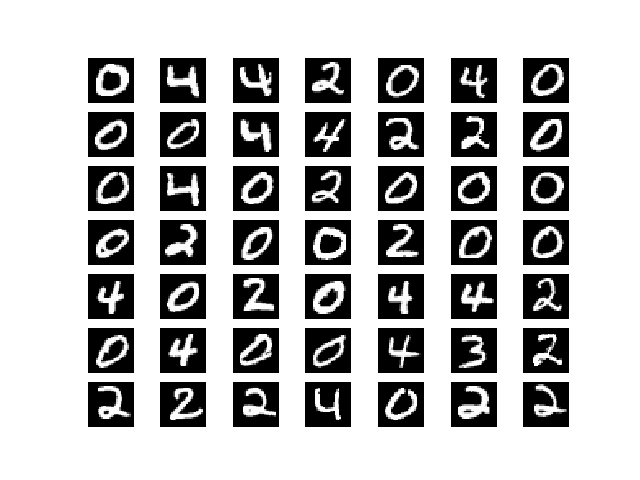
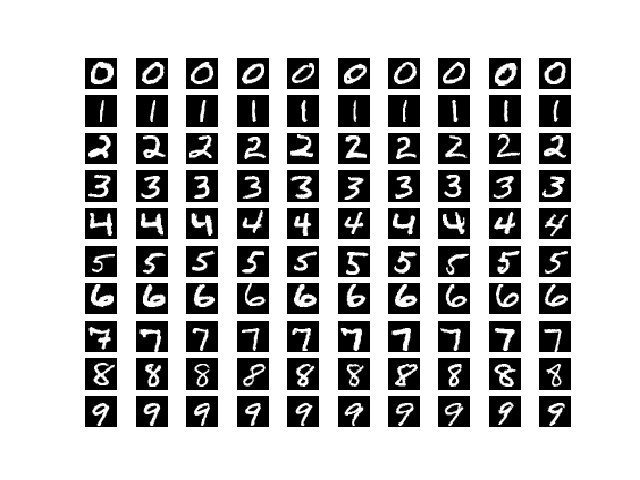
Fix images

diff --git a/vis_combined.py b/vis_combined.py
@@ -5,6 +5,7 @@ import matplotlib.pyplot as plt
 import numpy as np
 from train_aleatoric import predict as predict_aleatoric
 from scipy.stats import entropy
+from tqdm import tqdm
 
 net = torch.load('combined.pt')
 test_loader = torch.utils.data.DataLoader(
@@ -17,66 +18,92 @@ batch_size=256, shuffle=True)
 
 images = []
 ps = []
+classes = []
 def predict(data, net, T=50):
 
 	p = [predict_aleatoric(data, net) for _ in range(T)]
 	return sum(p) / len(p)
 
 net.train()
-for data, _ in test_loader:
+for data, target in tqdm(test_loader):
 	p = predict(data.view(len(data), -1), net)
 	images.extend(data.numpy())
 	
 	ps.extend(p.view(-1, 10).detach().numpy())
+	classes.extend(target.view(-1).detach().numpy())
 
 uncertainties = [entropy(p) for p in ps]
+classes = np.array(classes)
+all_uncertainties = np.array(uncertainties)
+all_images = np.array(images)
+
+
+
 plt.figure()
-indices = np.argsort(uncertainties)[:49]
-for i, index in enumerate(indices, start=1):
-	plt.subplot(7,7,i)
-	plt.imshow(images[index].reshape(28,28), cmap='gray')
-	plt.axis('off')
-	print (uncertainties[index])
+for t in range(10):
+	uncertainties = all_uncertainties[classes == t]
+	images = all_images[classes==t]
+	indices = np.argsort(uncertainties)[:10]
+	for i, index in enumerate(indices):
+		plt.subplot(10,10,t*10+i+1)
+		plt.imshow(images[index].reshape(28,28), cmap='gray')
+		plt.axis('off')
+		print (uncertainties[index])
 
 plt.savefig('high_combined_epistemic.png')
 
+
 plt.figure()
-indices = np.argsort(uncertainties)[::-1][:49]
-for i, index in enumerate(indices, start=1):
-	plt.subplot(7,7,i)
-	plt.imshow(images[index].reshape(28,28), cmap='gray')
-	plt.axis('off')
-	print (uncertainties[index])
+for t in range(10):
+	uncertainties = all_uncertainties[classes == t]
+	images = all_images[classes==t]
+	indices = np.argsort(uncertainties)[::-1][:10]
+	for i, index in enumerate(indices):
+		plt.subplot(10,10,t*10+i+1)
+		plt.imshow(images[index].reshape(28,28), cmap='gray')
+		plt.axis('off')
+		print (uncertainties[index])
 
 plt.savefig('low_combined_epistemic.png')
 
-'''
+
+
 images = []
 uncertainties = []
+classes =[]
 net.eval()
-for data, _ in test_loader:
+for data, target in tqdm(test_loader):
 	mu, log_sigma2 = net(data.view(len(data), -1))
 	images.extend(data.numpy())
 	
 	uncertainties.extend(log_sigma2.view(-1).detach().numpy())
+	classes.extend(target.view(-1).detach().numpy())
 
+classes = np.array(classes)
+all_uncertainties = np.array(uncertainties)
+all_images = np.array(images)
 plt.figure()
-indices = np.argsort(uncertainties)[:49]
-for i, index in enumerate(indices, start=1):
-	plt.subplot(7,7,i)
-	plt.imshow(images[index].reshape(28,28), cmap='gray')
-	plt.axis('off')
-	print (uncertainties[index])
-
+for t in range(10):
+	uncertainties = all_uncertainties[classes == t]
+	images = all_images[classes==t]
+	indices = np.argsort(uncertainties)[:10]
+	for i, index in enumerate(indices):
+		plt.subplot(10,10,t*10+i+1)
+		plt.imshow(images[index].reshape(28,28), cmap='gray')
+		plt.axis('off')
+		print (uncertainties[index])
 plt.savefig('high_combined_aleatoric.png')
 
 plt.figure()
-indices = np.argsort(uncertainties)[::-1][:49]
-for i, index in enumerate(indices, start=1):
-	plt.subplot(7,7,i)
-	plt.imshow(images[index].reshape(28,28), cmap='gray')
-	plt.axis('off')
-	print (uncertainties[index])
+for t in range(10):
+	uncertainties = all_uncertainties[classes == t]
+	images = all_images[classes==t]
+	indices = np.argsort(uncertainties)[::-1][:10]
+	for i, index in enumerate(indices):
+		plt.subplot(10,10,t*10+i+1)
+		plt.imshow(images[index].reshape(28,28), cmap='gray')
+		plt.axis('off')
+		print (uncertainties[index])
+
 
 plt.savefig('low_combined_aleatoric.png')
-'''

diff --git a/vis_epistemic.py b/vis_epistemic.py
@@ -5,6 +5,7 @@ import matplotlib.pyplot as plt
 import numpy as np
 from train_epistemic import predict
 from scipy.stats import entropy
+from tqdm import tqdm
 
 net = torch.load('epistemic.pt')
 test_loader = torch.utils.data.DataLoader(
@@ -17,30 +18,43 @@ batch_size=256, shuffle=True)
 
 images = []
 ps = []
+classes = []
 net.train()
-for data, _ in test_loader:
+for data, target in tqdm(test_loader):
 	p = predict(data.view(len(data), -1), net)
 	images.extend(data.numpy())
 	
 	ps.extend(p.view(-1, 10).detach().numpy())
+	classes.extend(target.view(-1).detach().numpy())
 
 uncertainties = [entropy(p) for p in ps]
+classes = np.array(classes)
+all_uncertainties = np.array(uncertainties)
+all_images = np.array(images)
+
+
 plt.figure()
-indices = np.argsort(uncertainties)[:49]
-for i, index in enumerate(indices, start=1):
-	plt.subplot(7,7,i)
-	plt.imshow(images[index].reshape(28,28), cmap='gray')
-	plt.axis('off')
-	print (uncertainties[index])
+for t in range(10):
+	uncertainties = all_uncertainties[classes == t]
+	images = all_images[classes==t]
+	indices = np.argsort(uncertainties)[:10]
+	for i, index in enumerate(indices):
+		plt.subplot(10,10,t*10+i+1)
+		plt.imshow(images[index].reshape(28,28), cmap='gray')
+		plt.axis('off')
+		print (uncertainties[index])
 
 plt.savefig('high_epistemic.png')
 
 plt.figure()
-indices = np.argsort(uncertainties)[::-1][:49]
-for i, index in enumerate(indices, start=1):
-	plt.subplot(7,7,i)
-	plt.imshow(images[index].reshape(28,28), cmap='gray')
-	plt.axis('off')
-	print (uncertainties[index])
+for t in range(10):
+	uncertainties = all_uncertainties[classes == t]
+	images = all_images[classes==t]
+	indices = np.argsort(uncertainties)[::-1][:10]
+	for i, index in enumerate(indices):
+		plt.subplot(10,10,t*10+i+1)
+		plt.imshow(images[index].reshape(28,28), cmap='gray')
+		plt.axis('off')
+		print (uncertainties[index])
 
 plt.savefig('low_epistemic.png')

diff --git a/vis_aleatoric.py b/vis_aleatoric.py
@@ -15,29 +15,40 @@ batch_size=256, shuffle=True)
 
 images = []
 uncertainties = []
+classes =[]
 net.eval()
-for data, _ in test_loader:
+for data, target in test_loader:
 	mu, log_sigma2 = net(data.view(len(data), -1))
 	images.extend(data.numpy())
 	
 	uncertainties.extend(log_sigma2.view(-1).detach().numpy())
+	classes.extend(target.view(-1).detach().numpy())
 
+classes = np.array(classes)
+all_uncertainties = np.array(uncertainties)
+all_images = np.array(images)
 plt.figure()
-indices = np.argsort(uncertainties)[:49]
-for i, index in enumerate(indices, start=1):
-	plt.subplot(7,7,i)
-	plt.imshow(images[index].reshape(28,28), cmap='gray')
-	plt.axis('off')
-	print (uncertainties[index])
+for t in range(10):
+	uncertainties = all_uncertainties[classes == t]
+	images = all_images[classes==t]
+	indices = np.argsort(uncertainties)[:10]
+	for i, index in enumerate(indices):
+		plt.subplot(10,10,t*10+i+1)
+		plt.imshow(images[index].reshape(28,28), cmap='gray')
+		plt.axis('off')
+		print (uncertainties[index])
 
 plt.savefig('high_aleatoric.png')
 
 plt.figure()
-indices = np.argsort(uncertainties)[::-1][:49]
-for i, index in enumerate(indices, start=1):
-	plt.subplot(7,7,i)
-	plt.imshow(images[index].reshape(28,28), cmap='gray')
-	plt.axis('off')
-	print (uncertainties[index])
+for t in range(10):
+	uncertainties = all_uncertainties[classes == t]
+	images = all_images[classes==t]
+	indices = np.argsort(uncertainties)[::-1][:10]
+	for i, index in enumerate(indices):
+		plt.subplot(10,10,t*10+i+1)
+		plt.imshow(images[index].reshape(28,28), cmap='gray')
+		plt.axis('off')
+		print (uncertainties[index])
 
 plt.savefig('low_aleatoric.png')
